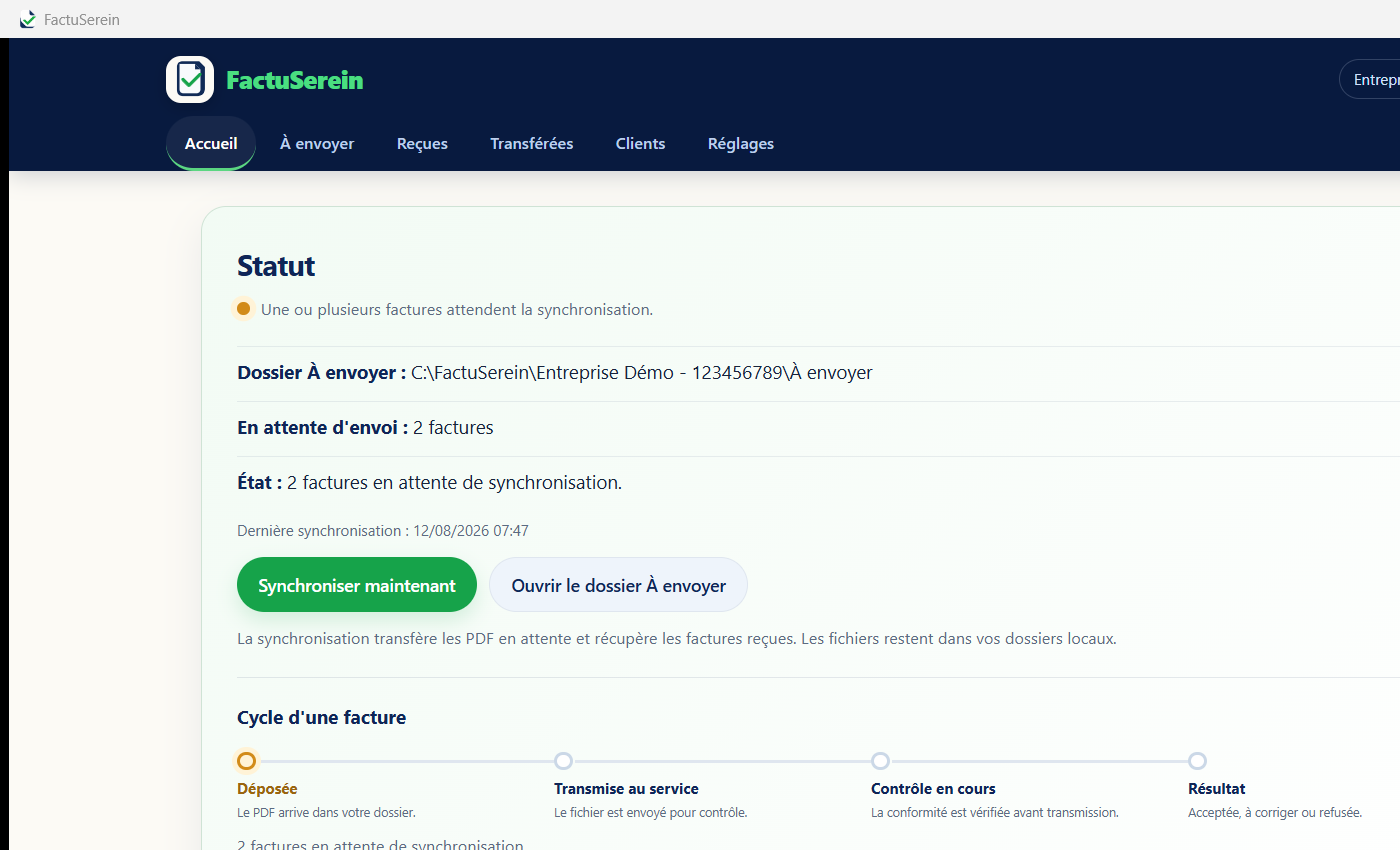
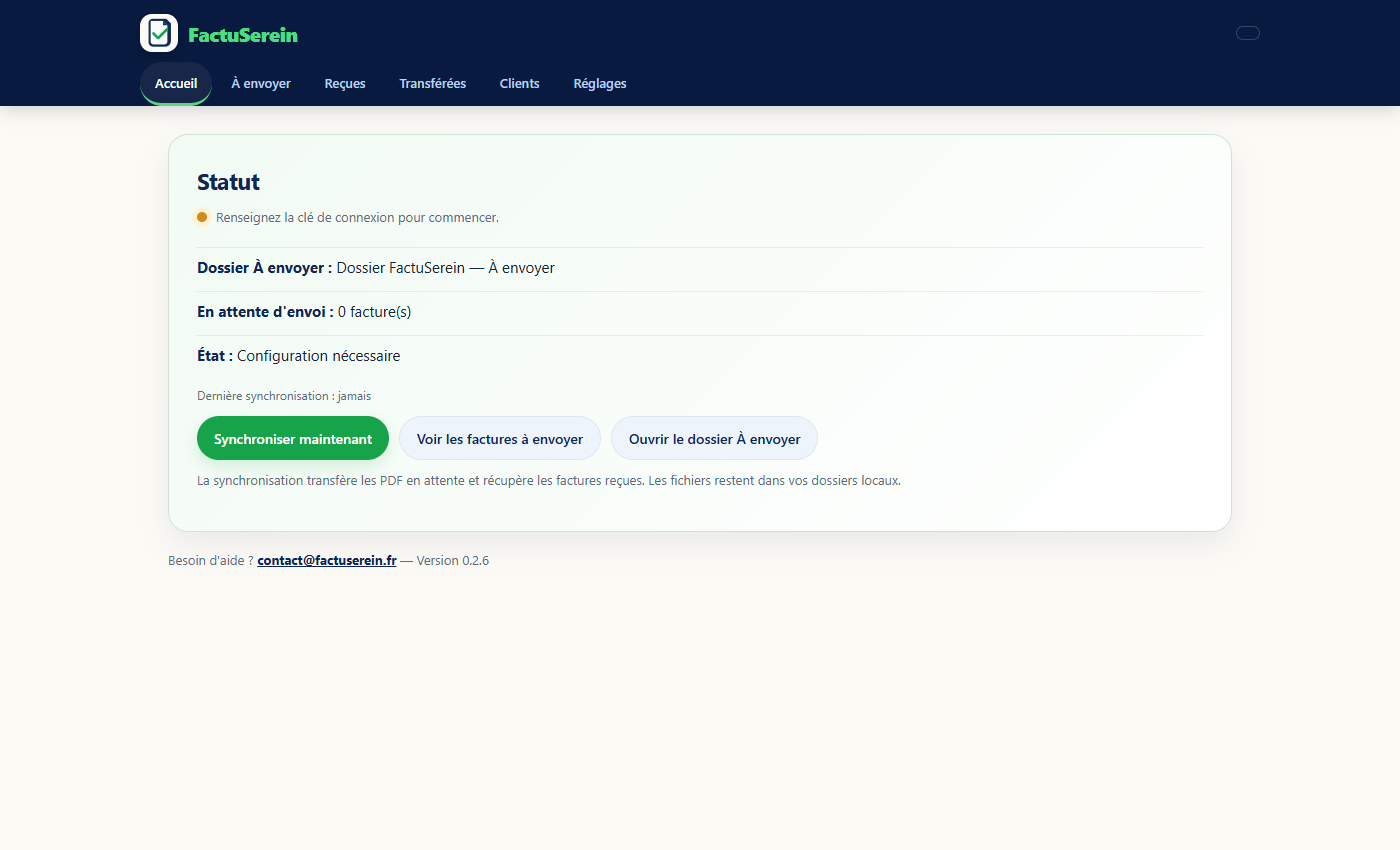
docs: refresh desktop validation screenshots

diff --git a/outils/telecharger.html b/outils/telecharger.html
@@ -70,8 +70,8 @@
       <div class="app-carousel" data-carousel tabindex="0" aria-roledescription="carousel" aria-label="Captures de l'application FactuSerein">
         <div class="app-carousel-viewport">
           <figure class="app-slide is-active" data-slide aria-hidden="false">
-            <img src="../assets/img/app-screenshot-home.png" alt="Écran Accueil de FactuSerein avec le statut, le dossier À envoyer et la synchronisation" width="1220" height="800" loading="eager">
-            <figcaption><strong>Accueil.</strong> Le statut, le dossier surveillé et la prochaine action sont visibles immédiatement.</figcaption>
+            <img src="../assets/img/app-screenshot-home.png" alt="Écran Accueil de FactuSerein avec le statut, le dossier À envoyer et la synchronisation" width="1400" height="850" loading="eager">
+            <figcaption><strong>Accueil.</strong> Un statut court et les actions principales sont visibles immédiatement ; les détails restent dans les onglets dédiés.</figcaption>
           </figure>
           <figure class="app-slide" data-slide aria-hidden="true">
             <img src="../assets/img/app-screenshot-clients.png" alt="Écran Clients de FactuSerein affichant l'adresse actuelle et l'ancienne adresse d'un client" width="1220" height="800" loading="lazy">
@@ -95,7 +95,7 @@
           </figure>
           <figure class="app-slide" data-slide aria-hidden="true">
             <img src="../assets/img/app-screenshot-validation-error.png" alt="Vue de validation affichant les totaux incohérents en rouge avant l'envoi" width="1440" height="1000" loading="lazy">
-            <figcaption><strong>Cas à corriger.</strong> Les champs manquants, divergences et détails de relance sont expliqués avant tout envoi.</figcaption>
+            <figcaption><strong>Cas à corriger.</strong> Dans cet exemple de test, le total est volontairement divergent : les champs en erreur sont signalés avant tout envoi.</figcaption>
           </figure>
           <figure class="app-slide" data-slide aria-hidden="true">
             <img src="../assets/img/app-screenshot-validation-scan.png" alt="Vue de validation d'un scan avec le badge de vérification renforcée" width="1440" height="1000" loading="lazy">
